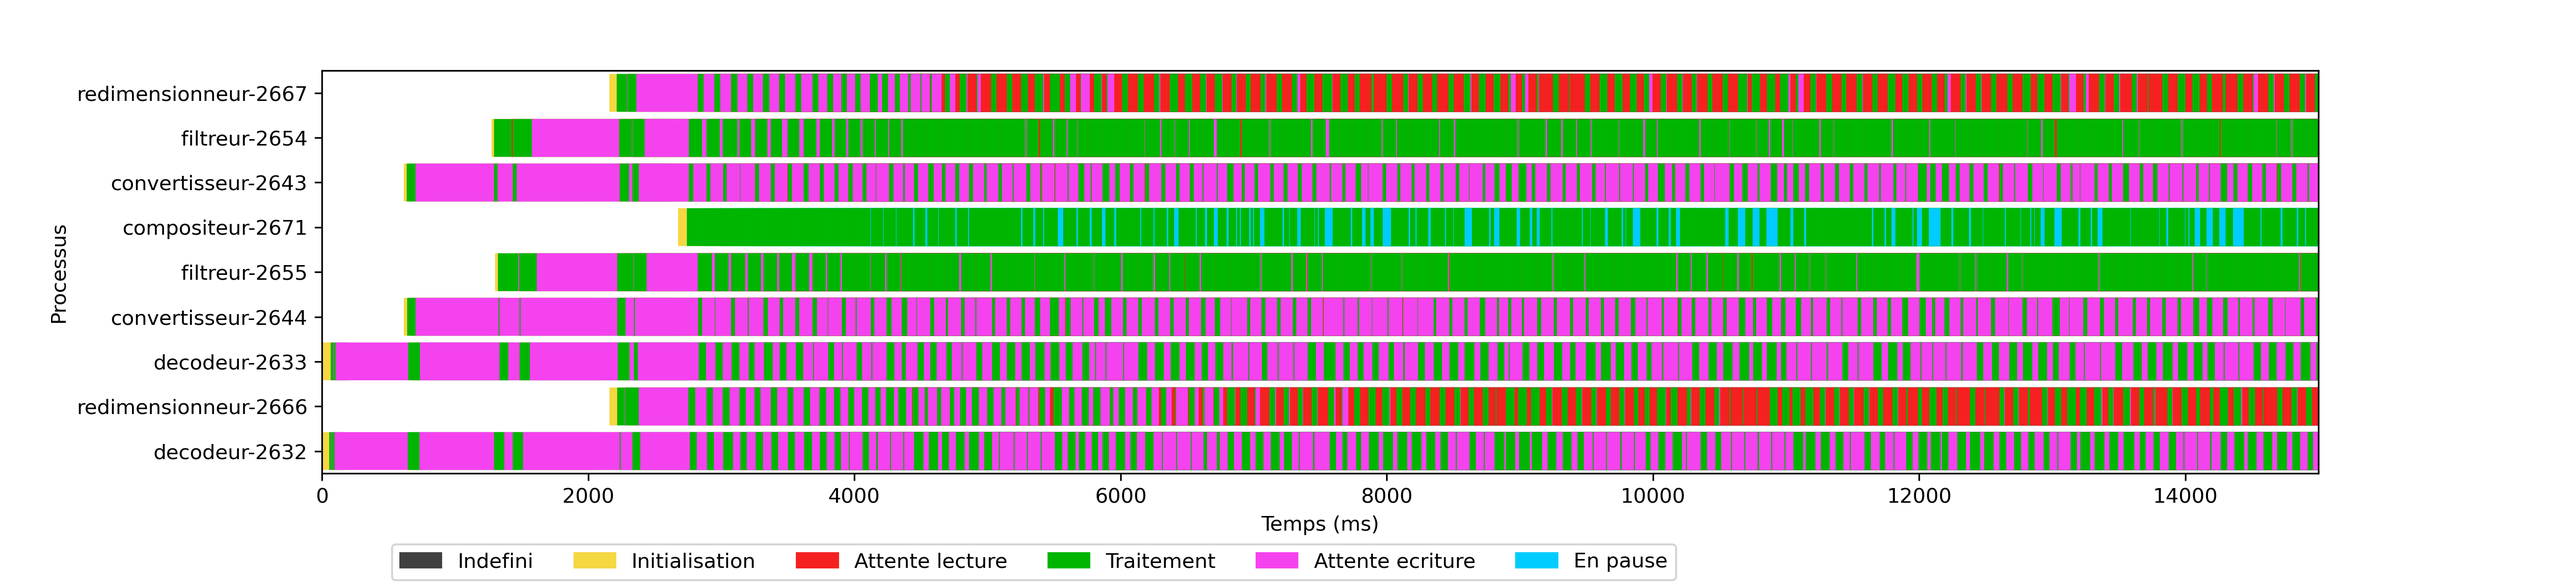
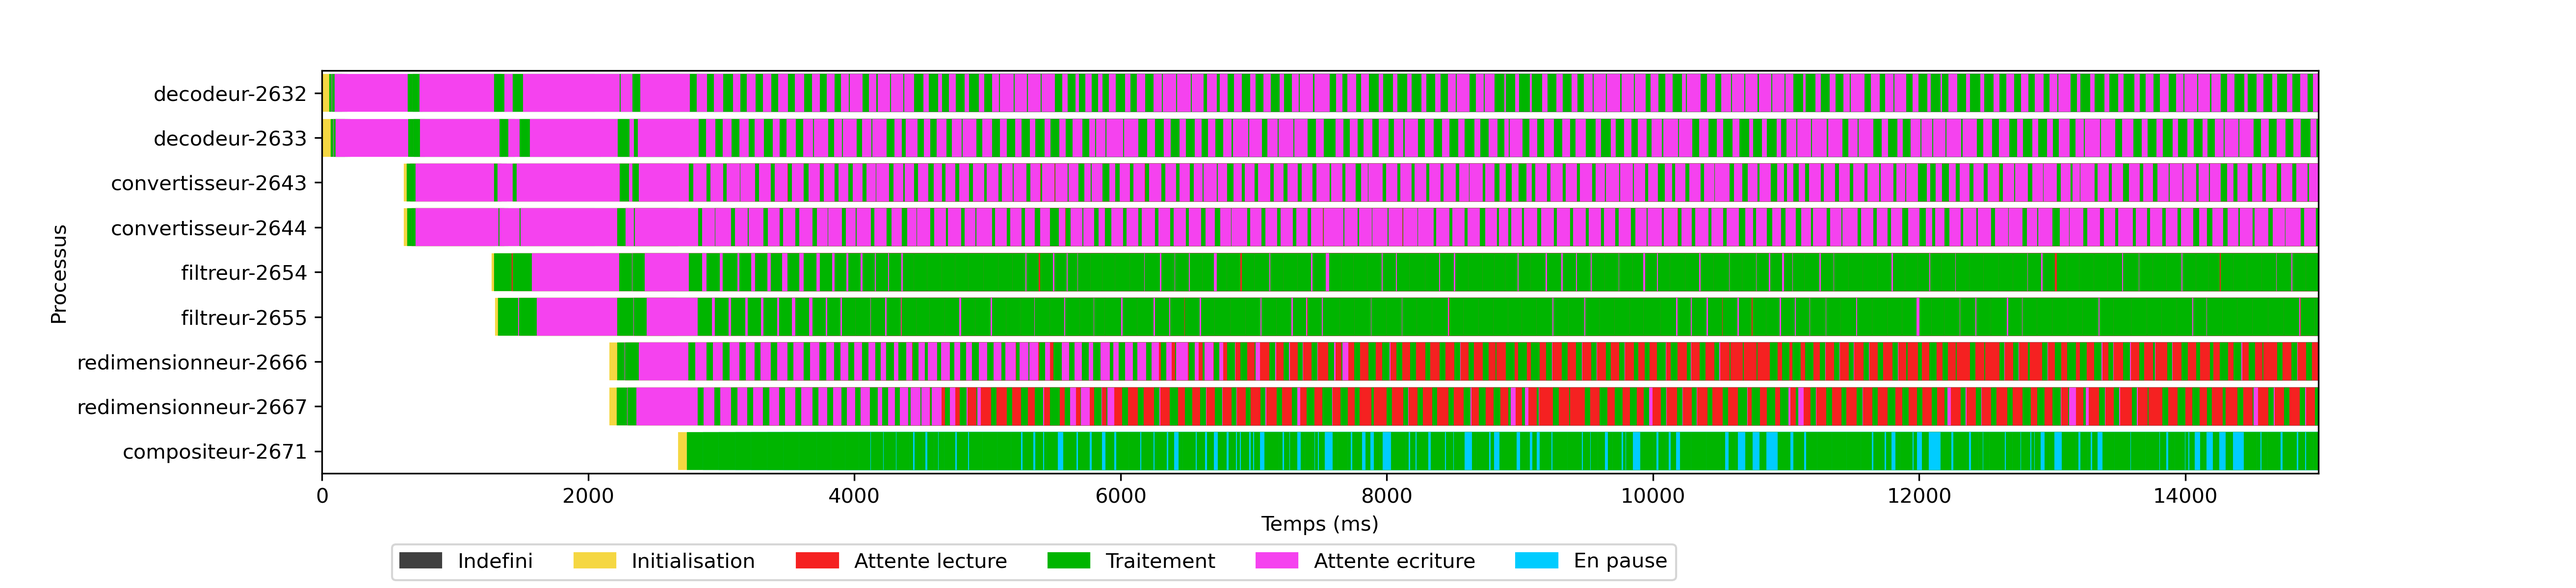
Ordonner processus lors de l'affichage du profilage

diff --git a/src/creerProfilageImages.py b/src/creerProfilageImages.py
@@ -23,7 +23,9 @@ NS_TO_MS = 1e6
 
 
 if __name__ == "__main__":
-    parser = argparse.ArgumentParser(prog="Afficheur des etats des programmes, Labo 3 SETR")
+    parser = argparse.ArgumentParser(
+        prog="Afficheur des etats des programmes, Labo 3 SETR"
+    )
     parser.add_argument(
         "dossier_input",
         help="Chemin vers le dossier contenant les fichiers profilage-*",
@@ -42,7 +44,11 @@ if __name__ == "__main__":
         help="Afficher uniquement les N premieres secondes (par defaut, tout afficher)",
     )
     args = parser.parse_args()
-    files = list(args.dossier_input.glob("profilage-*"))
+    files = sorted(
+        args.dossier_input.glob("profilage-*"),
+        key=lambda f: int(f.stem.rpartition("-")[2]),
+        reverse=True,
+    )
     data = {}
 
     for fpath in files:
@@ -72,7 +78,8 @@ if __name__ == "__main__":
             ax.add_patch(r)
 
     ax.set_yticks(
-        [(i + 0.5) for i in range(len(files))], labels=[f.stem.partition("-")[2] for f in files]
+        [(i + 0.5) for i in range(len(files))],
+        labels=[f.stem.partition("-")[2] for f in files],
     )
     graphpos = ax.get_position()
     ax.set_position(
